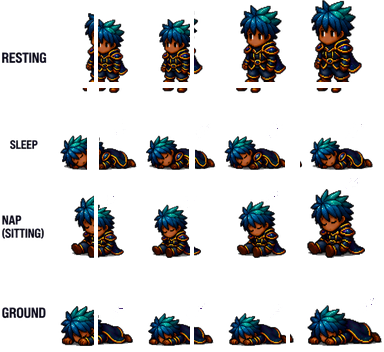
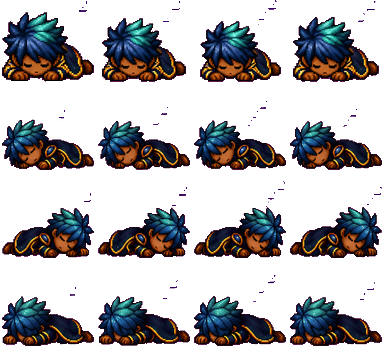
RP7 · AFK sleep swap · new 4-dir sheet · 10s trigger · face-preserving
New sleep sheet baked from user upload · 4 rows × 4 frames · direction-
based (down/left/right/up) instead of the old pose-variant layout.
96×88 cells with feet at y=82 to fit horizontal sleep silhouettes.

State machine simplified:
 · REST phase removed
 · Old 8s → resting → 30s → lie flow collapsed
 · Now: 10s AFK → single 'sleep' phase, 4-frame breathing anim at 320ms
 · Player lies down facing the SAME dir they were standing in when sleep
   triggered · row picked by game.player.dir at render time

Any keyboard/gamepad input, movement, or attack resets idleMs = 0 and
wakes the player instantly (noteInputActivity + tickSleep guards).

Sheet at assets/rp7/beta_assets/player/player0_sleep_native.png · 384x352.

diff --git a/rp7b.html b/rp7b.html
@@ -8851,23 +8851,17 @@ function drawBetaShadow(cx, groundY, width, strength) {
 // heading.  game.player.dir already persists, so idle just renders that
 // facing's stand pose instead of snapping back to 'down'.
 function drawBetaPlayer(cx, cy, dir) {
-  // ★ 2026-08-02 · SLEEP · AFK player renders lying/sitting/curled pose.
-  //   Priority: sleep beats mount beats weapon-skin beats cosmetic.
+  // ★ 2026-08-03 · SLEEP · direction-preserving.  When AFK for 10s the
+  // player lies down facing the SAME direction they were standing (dir).
+  // Sheet layout: row 0 = down, 1 = left, 2 = right, 3 = up.  4 breathing
+  // frames per row.
   const sleep = game.player && game.player.sleepState;
-  if (sleep && sleep.phase === 'lie' && _imgOk(BETA_PLAYER_SLEEP.sheet)) {
-    // rows 1/2/3 = sleep/nap/ground; 4 frames per row.
-    const rowIdx = ({ sleep: 1, nap: 2, ground: 3 })[sleep.pose] || 1;
+  if (sleep && sleep.phase === 'sleep' && _imgOk(BETA_PLAYER_SLEEP.sheet)) {
     const S = BETA_PLAYER_SLEEP;
+    const rowMap = { down: 0, left: 1, right: 2, up: 3 };
+    const rowIdx = rowMap[dir] !== undefined ? rowMap[dir] : 0;
     drawBetaShadow(cx, cy + TILE / 2 - 2, 34, 0.32);
     ctx.drawImage(S.sheet, (sleep.frame % 4) * S.cellW, rowIdx * S.cellH, S.cellW, S.cellH,
-      Math.round(cx - S.cellW / 2), Math.round((cy + TILE / 2) - S.feetY), S.cellW, S.cellH);
-    return true;
-  }
-  if (sleep && sleep.phase === 'rest' && _imgOk(BETA_PLAYER_SLEEP.sheet)) {
-    // Row 0 = resting (standing but drowsy · 4 frames).
-    const S = BETA_PLAYER_SLEEP;
-    drawBetaShadow(cx, cy + TILE / 2 - 2, 34, 0.32);
-    ctx.drawImage(S.sheet, (sleep.frame % 4) * S.cellW, 0, S.cellW, S.cellH,
       Math.round(cx - S.cellW / 2), Math.round((cy + TILE / 2) - S.feetY), S.cellW, S.cellH);
     return true;
   }
@@ -24151,18 +24145,18 @@ function syncRizerSkills() {
 }
 
 // ============================================================================
-// ★ 2026-08-02 · SLEEP IDLE · AFK timer.  After 8s of no input the player
-// transitions to a resting pose; after 30s they lie down / nap / curl up
-// (one of the three sleep variants chosen at start of sleep).  Any keyboard
-// or gamepad input resets to normal idle immediately.
+// ★ 2026-08-03 · SLEEP IDLE · direction-preserving AFK.  After 10s of no
+// input the player lies down FACING WHICHEVER DIRECTION they were.  Any
+// keyboard / gamepad / attack input resets to normal idle immediately.
+// The sleep sheet is 4 dirs × 4 frames (down/left/right/up) so the render
+// picks the row by the player's current dir.
 // ============================================================================
-const SLEEP_REST_MS = 8000;
-const SLEEP_LIE_MS  = 30000;
-const SLEEP_POSES   = ['sleep', 'nap', 'ground'];   // rows 1/2/3 of sheet
+const SLEEP_TRIGGER_MS = 10000;   // 10 s of quiet → sleep
+const SLEEP_FRAME_MS   = 320;     // 4-frame anim cadence
 
 function initSleepState() {
   if (!game.player.sleepState) {
-    game.player.sleepState = { phase: 'active', idleMs: 0, pose: 'sleep', frame: 0, animMs: 0 };
+    game.player.sleepState = { phase: 'active', idleMs: 0, frame: 0, animMs: 0 };
   }
 }
 function noteInputActivity() {
@@ -24175,29 +24169,20 @@ function tickSleep(dt) {
   if (!game.player || game.mode !== 'overworld') return;
   initSleepState();
   const s = game.player.sleepState;
-  // Any movement or attack breaks sleep.
+  // Any movement, attack, or held direction key breaks sleep.
   const st = game.player.attackState;
   if (game.player.moveCd > 0 || (st && st.active)) {
     s.idleMs = 0; s.phase = 'active'; return;
   }
-  // Held direction keys count as active input.
   if (keys['arrowup']||keys['arrowdown']||keys['arrowleft']||keys['arrowright']||
       keys['w']||keys['a']||keys['s']||keys['d']) {
     s.idleMs = 0; s.phase = 'active'; return;
   }
   s.idleMs += dt;
   s.animMs += dt;
-  if (s.idleMs >= SLEEP_LIE_MS) {
-    if (s.phase !== 'lie') {
-      s.phase = 'lie';
-      s.pose  = SLEEP_POSES[Math.floor(Math.random() * SLEEP_POSES.length)];
-      s.frame = 0; s.animMs = 0;
-    }
-    // 4-frame ping-pong every 250ms
-    if (s.animMs > 250) { s.animMs = 0; s.frame = (s.frame + 1) % 4; }
-  } else if (s.idleMs >= SLEEP_REST_MS) {
-    if (s.phase !== 'rest') { s.phase = 'rest'; s.frame = 0; s.animMs = 0; }
-    if (s.animMs > 300) { s.animMs = 0; s.frame = (s.frame + 1) % 4; }
+  if (s.idleMs >= SLEEP_TRIGGER_MS) {
+    if (s.phase !== 'sleep') { s.phase = 'sleep'; s.frame = 0; s.animMs = 0; }
+    if (s.animMs >= SLEEP_FRAME_MS) { s.animMs = 0; s.frame = (s.frame + 1) % 4; }
   }
 }
 
